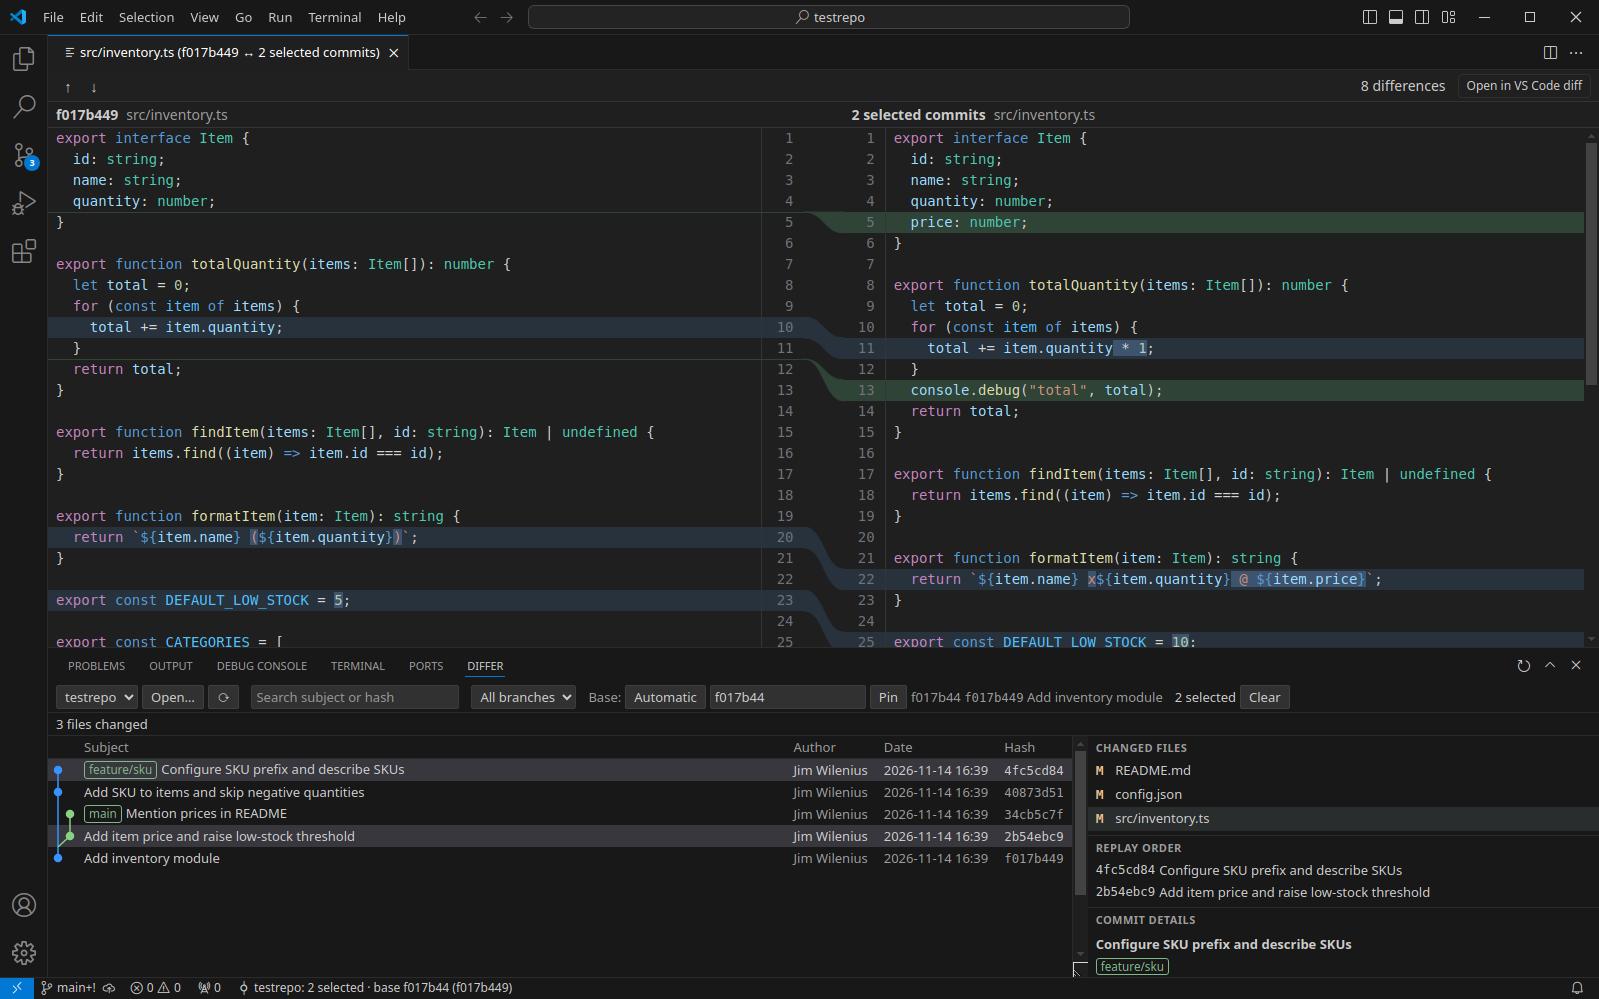
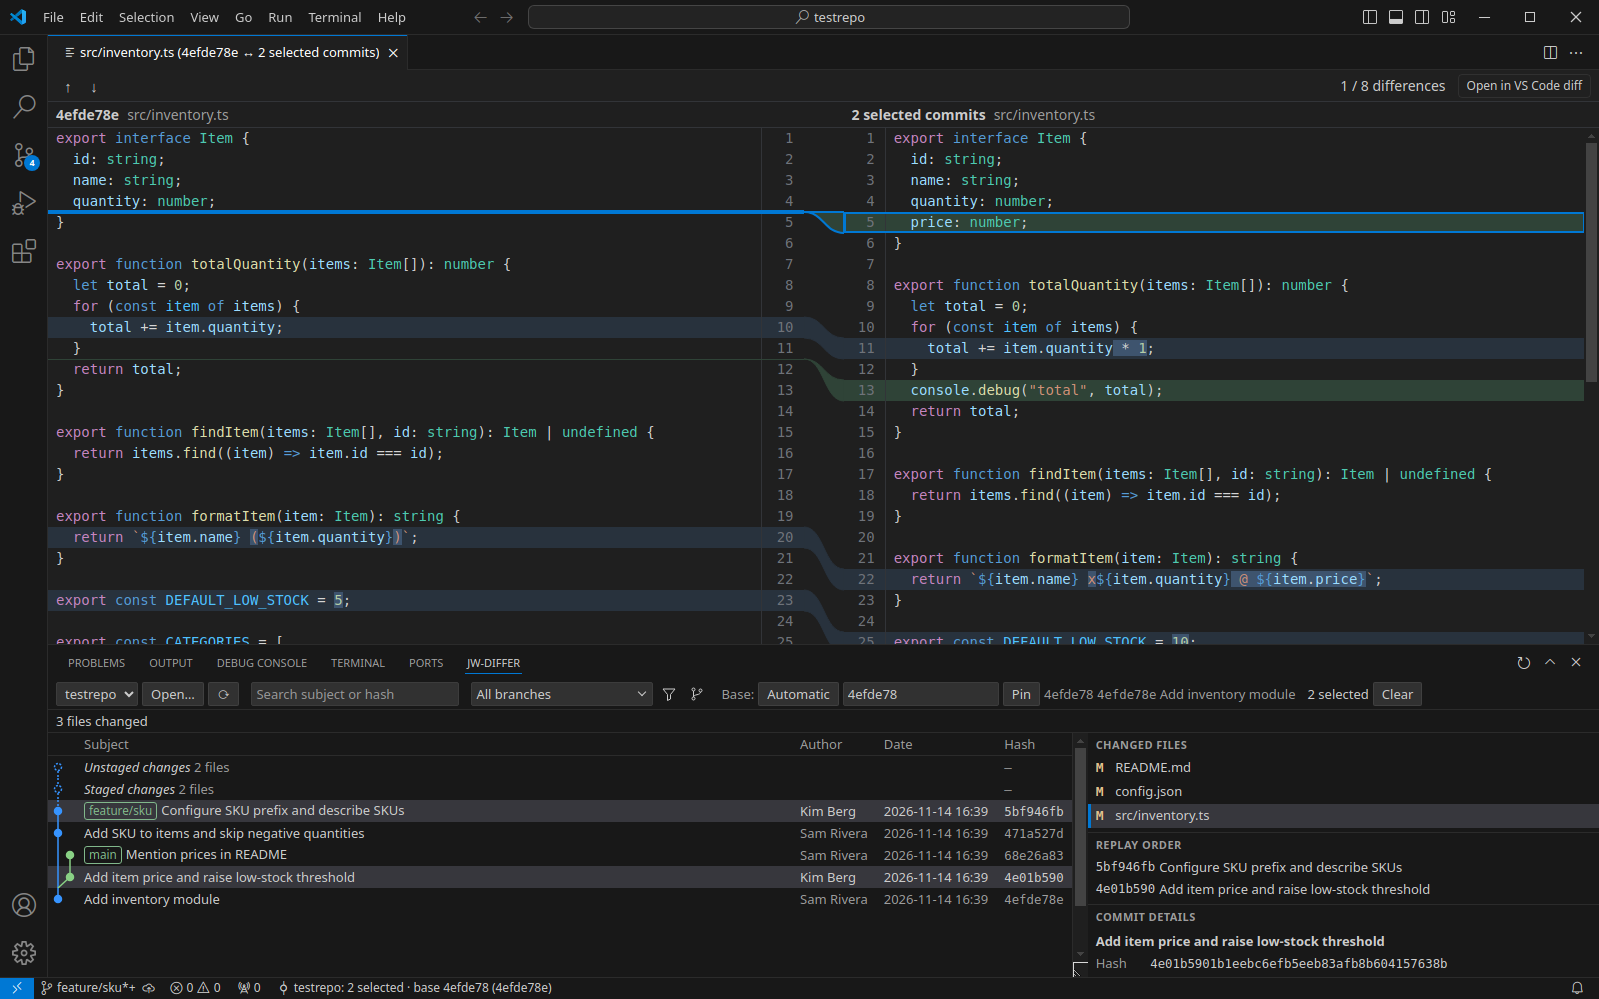
docs: show working-change rows and Select branch in History screenshots

diff --git a/README.md b/README.md
@@ -30,12 +30,11 @@ file gets a jw-differ icon.
 Select any subset of commits — including non-adjacent ones — and see exactly what those commits change, with nothing
 from the commits in between. Double-click a file to open its diff in VS Code's native diff editor.
 
-![jw-differ Git History panel below an open two-way diff of src/inventory.ts](docs/images/history-view.png)
+![jw-differ Git History panel with Staged changes and Unstaged changes rows above HEAD and the Select branch button next to the branch filter, below an open two-way diff of src/inventory.ts](docs/images/history-view.png)
 
-_Git History panel: branch graph, commit table, changed files, replay order and details; the selected commit's diff
-open above._
+_Git History panel: uncommitted-change rows above HEAD, branch graph, commit table, changed files, replay order and details; the selected commit's diff open above._
 
-![Git History panel with two commits from different branches selected and a pinned base, below the diff of src/inventory.ts against that selection](docs/images/history-multi-select.png)
+![Git History panel with two commits from different branches selected and a pinned base, the Staged changes and Unstaged changes rows above HEAD left unselected, below the diff of src/inventory.ts against that selection](docs/images/history-multi-select.png)
 
 _Multi-commit selection: two non-adjacent commits on different branches, Ctrl+clicked, replayed onto a pinned base;
 the diff shows only their changes, nothing from the commits between them._
@@ -111,6 +110,10 @@ the left; changed files, replay order and commit details on the right.
   Branch commits older than the loaded history are not selected; a message says how many.
 
 ### Uncommitted changes
+
+![Git History panel with the Staged changes and Unstaged changes rows selected and replayed on HEAD, below the diff of src/inventory.ts from HEAD to the file on disk](docs/images/history-working-changes.png)
+
+_**Staged changes** and **Unstaged changes** selected together replay on HEAD, Staged first; the diff compares HEAD's `src/inventory.ts` with the file on disk, and the untracked `src/pricing.ts` is listed as added._
 
 - Up to two rows above HEAD show uncommitted changes, each with its file count: **Staged changes** (index ↔ HEAD) and **Unstaged changes** (files on disk ↔ index).
 - A row shows only while it has changes, and only while the branch filter shows all branches or the checked-out branch.
